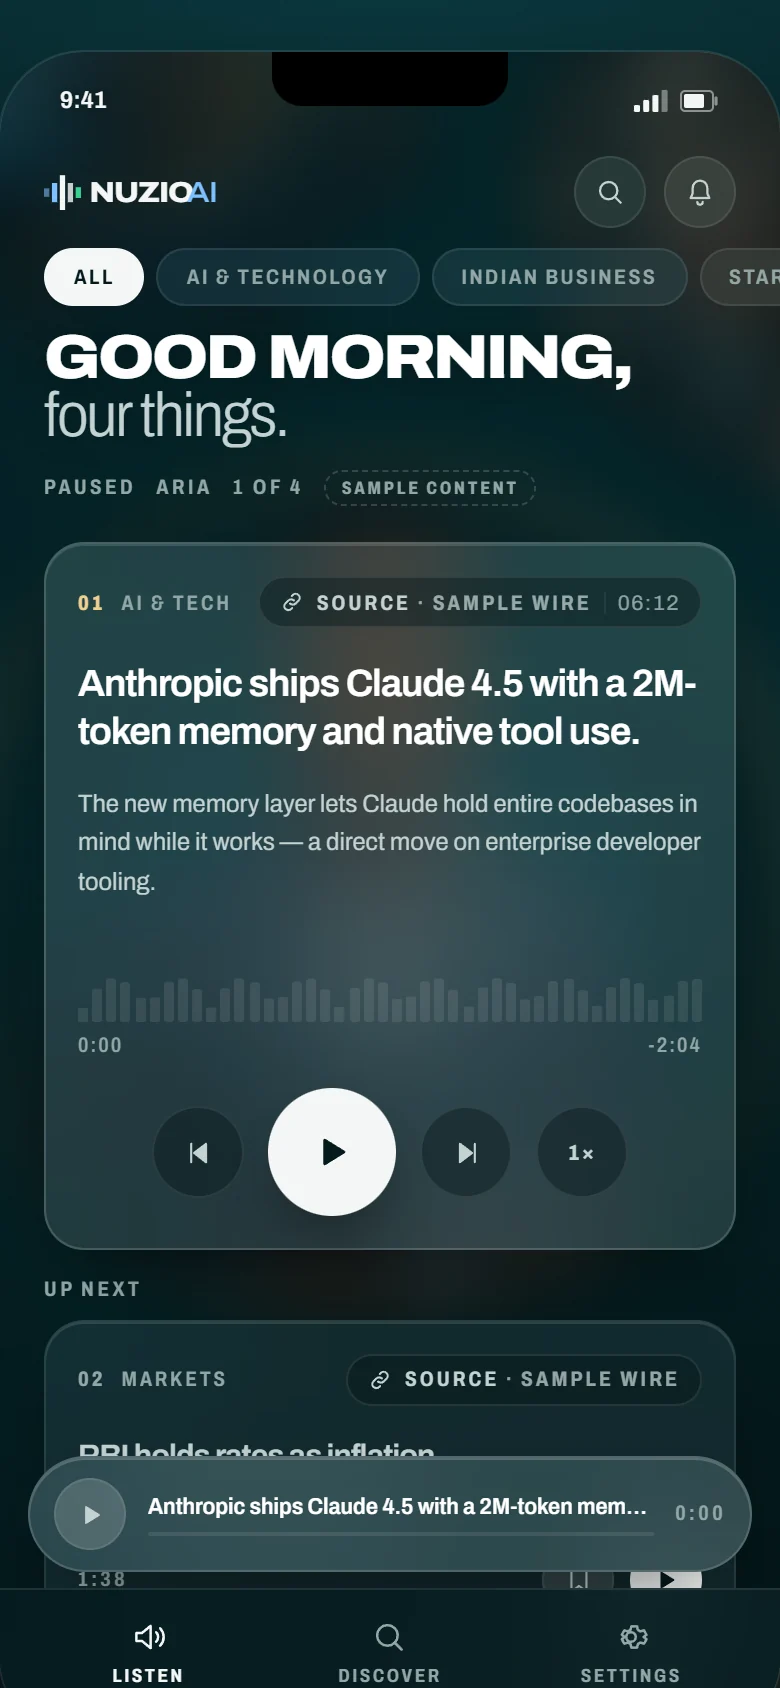
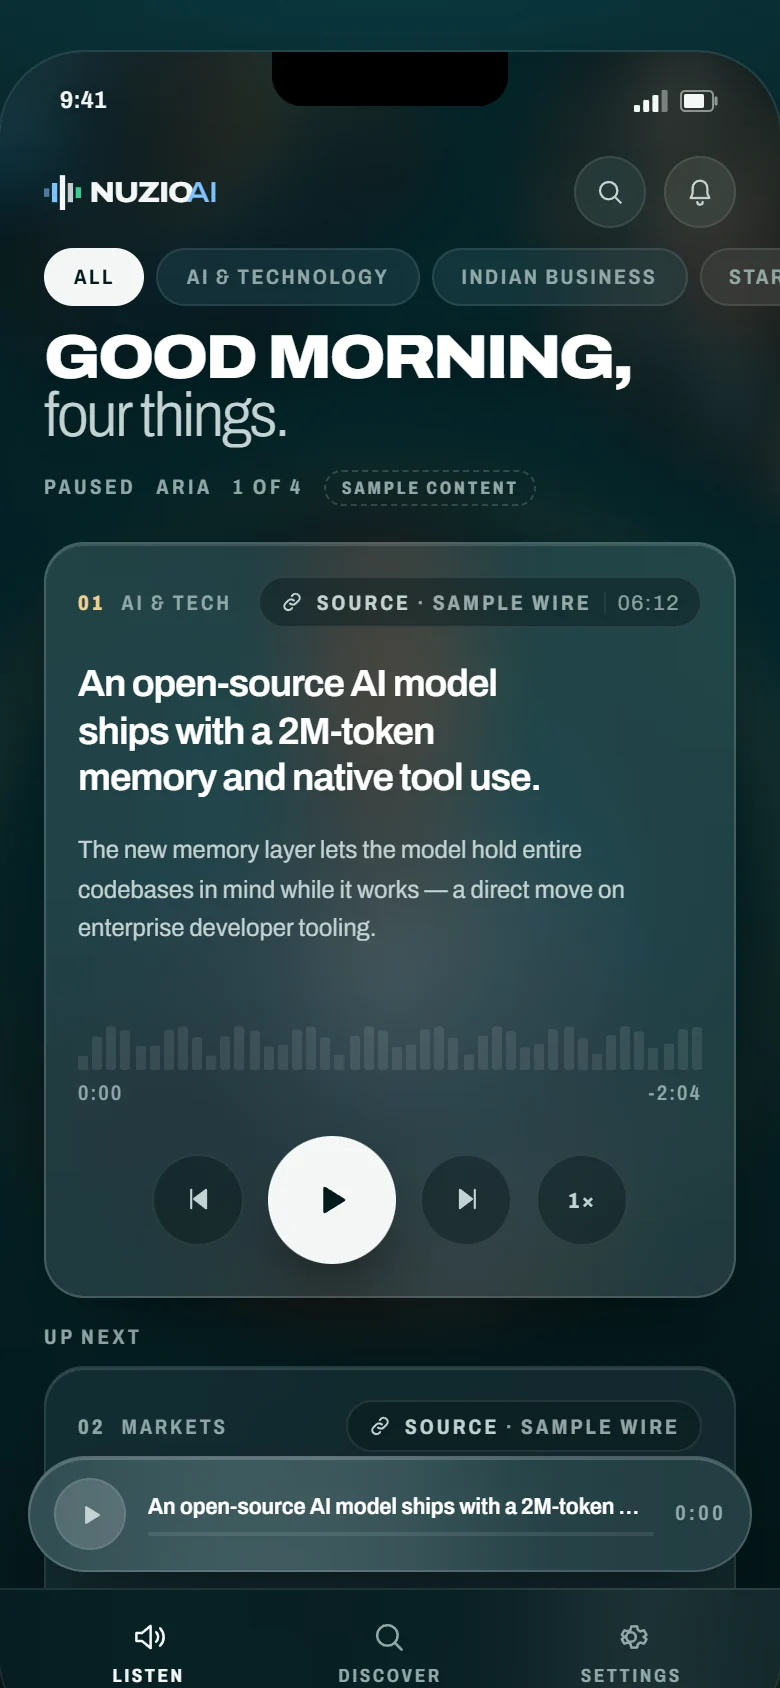
README: project wordmark, live links and updated screenshots

diff --git a/README.md b/README.md
@@ -1,6 +1,6 @@
 <div align="center">
 
-# Nuzio AI
+<img src="docs/brand/wordmark.webp" alt="Nuzio AI" width="100%">
 
 **A short, personalised audio news brief, waiting for you every morning.**
 
